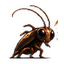
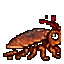
feat(player): integrate final Dark Horror roach assets

diff --git a/art/source/player/final-v1/README.md b/art/source/player/final-v1/README.md
@@ -1,7 +1,9 @@
 # BARATOZANDO — Roach Player Dark/Horror V1
 
-Approved production visual lock: 2026-09-20.
+Production extraction from the approved 2026-09-20 visual boards.
 
-Runtime target: 64×64 transparent RGBA, nearest-neighbor/pixel-art filtering, origin 0.5/1.0. Production set covers idle, walk, run, jump, fall, dodge, attack, hurt, death and wall-climb. Source direction is the approved copper/umber cockroach with worn dark carapace and controlled horror-game highlights.
-
-This directory is the canonical source lock for the V1 player-art pass. Runtime filenames continue to follow `art/contracts/asset-contract.json`.
+- Runtime canvas: 64×64 RGBA
+- Pixel-art filtering: nearest-neighbor
+- Origin contract: 0.5, 1.0
+- States: idle, walk, run, jump, fall, dodge, attack, hurt, death, climb
+- Source boards are preserved under `art/source/player/final-v1/`.
